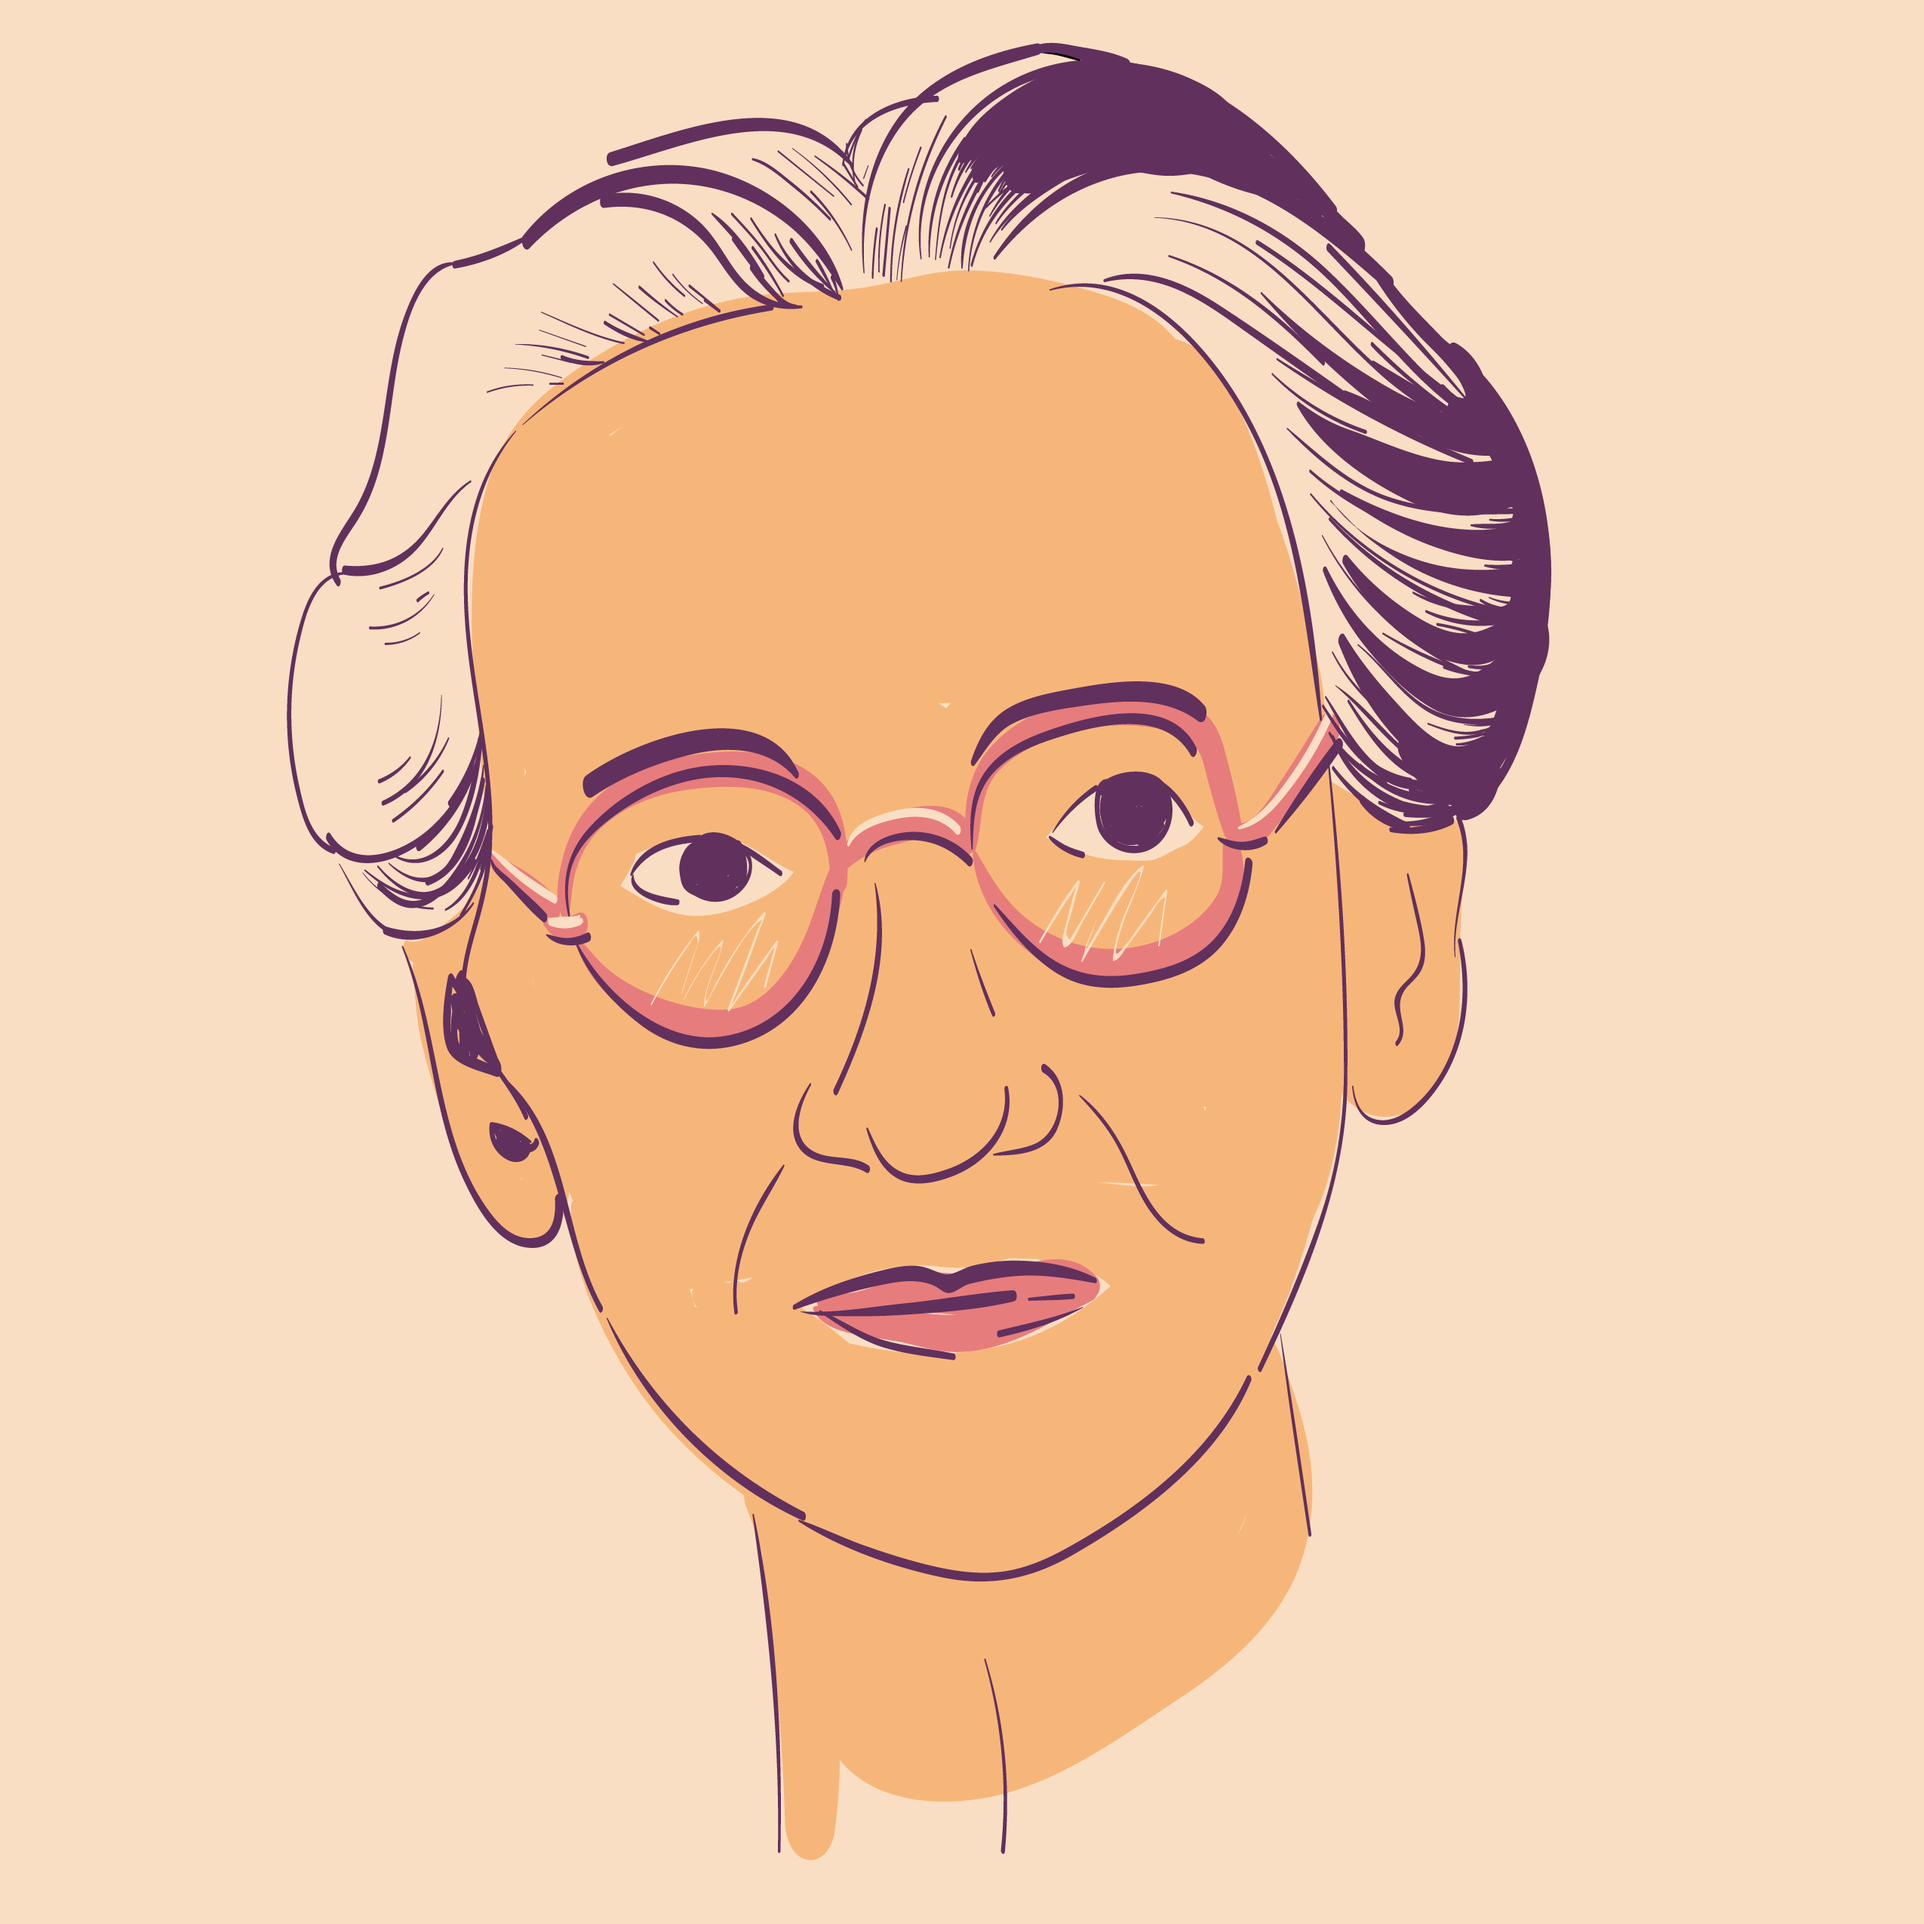
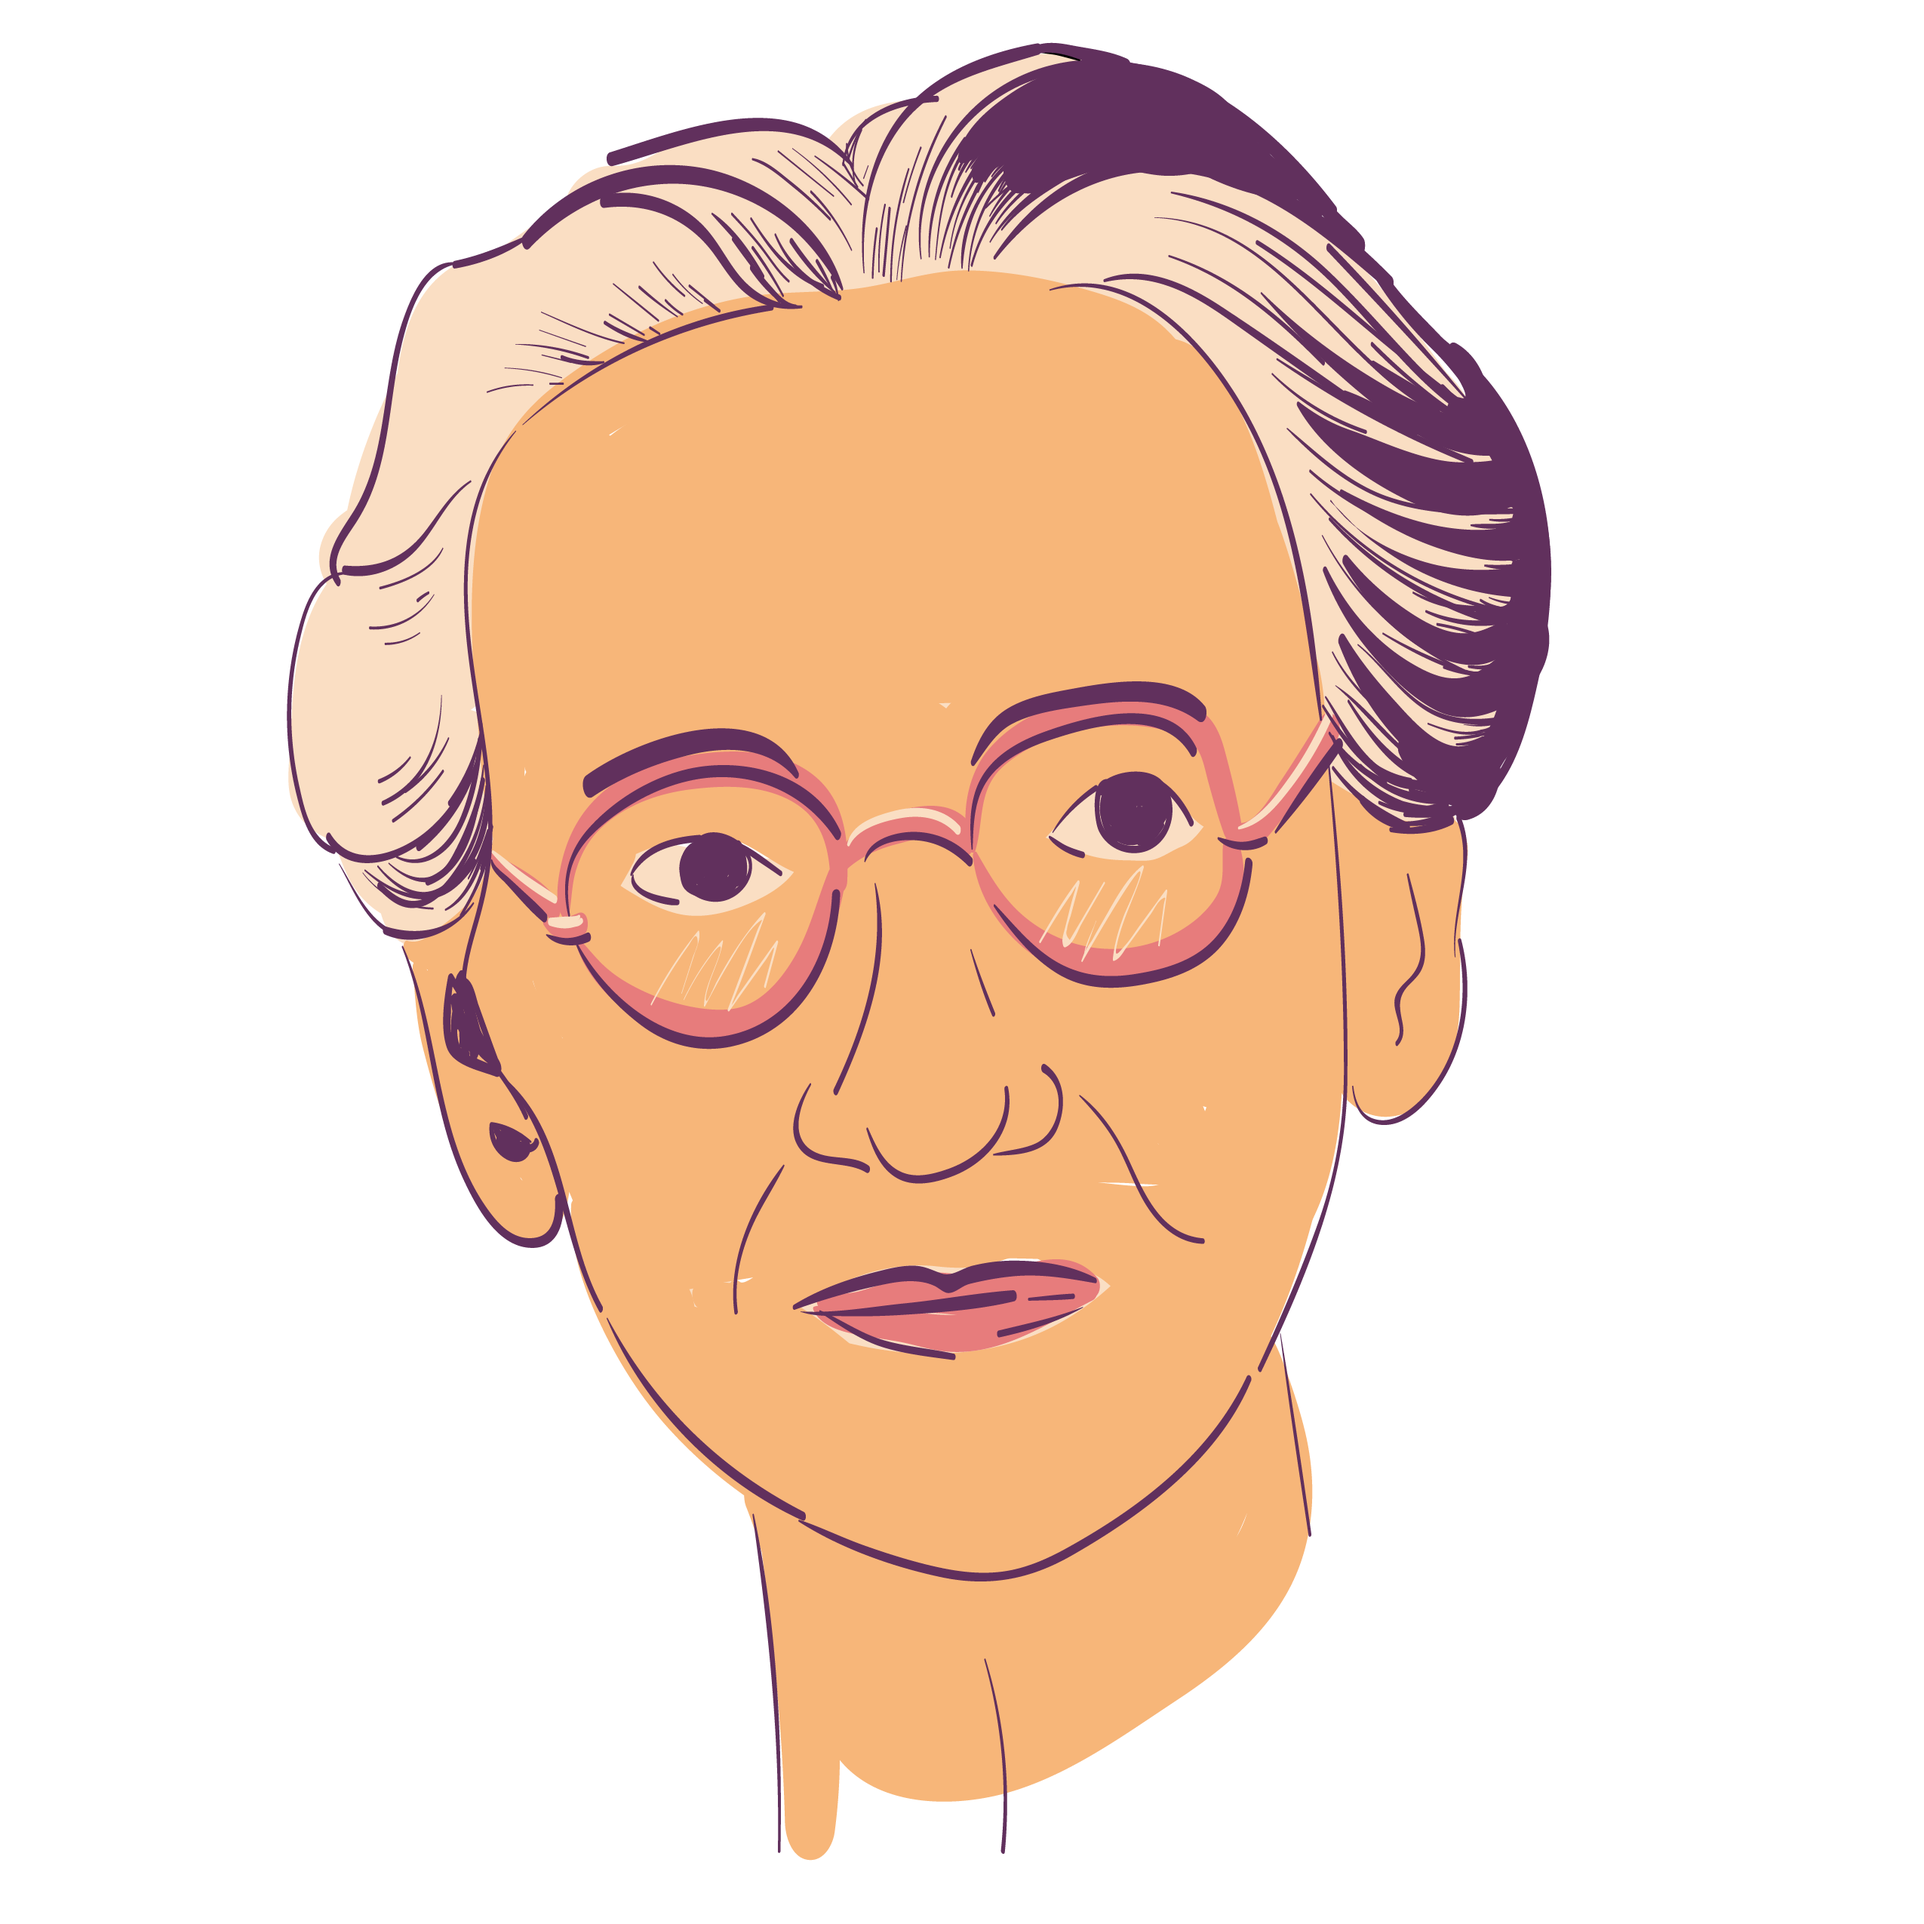
switch to images with transparent backgrounds

diff --git a/gatsby-config.js b/gatsby-config.js
@@ -12,6 +12,7 @@ module.exports = {
       projects: `https://violetlingenfelter.com/projects/`,
     },
   },
+  pathPrefix: "/women-of-venus",
   plugins: [
     {
       resolve: `gatsby-source-filesystem`,
